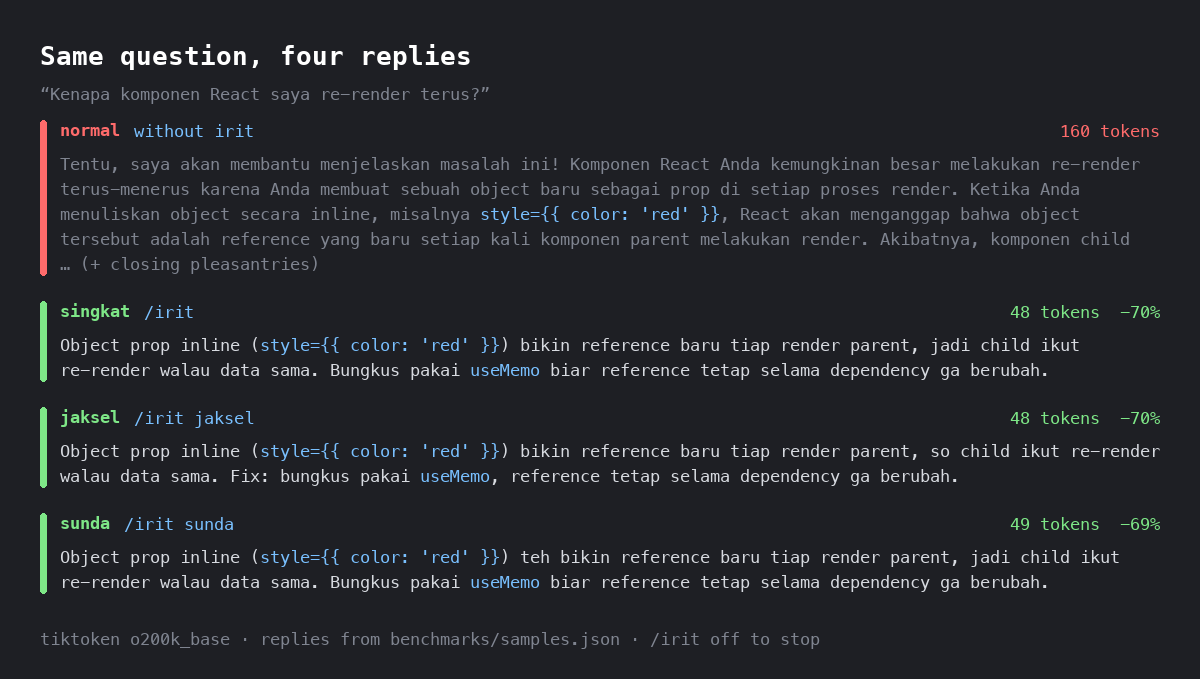
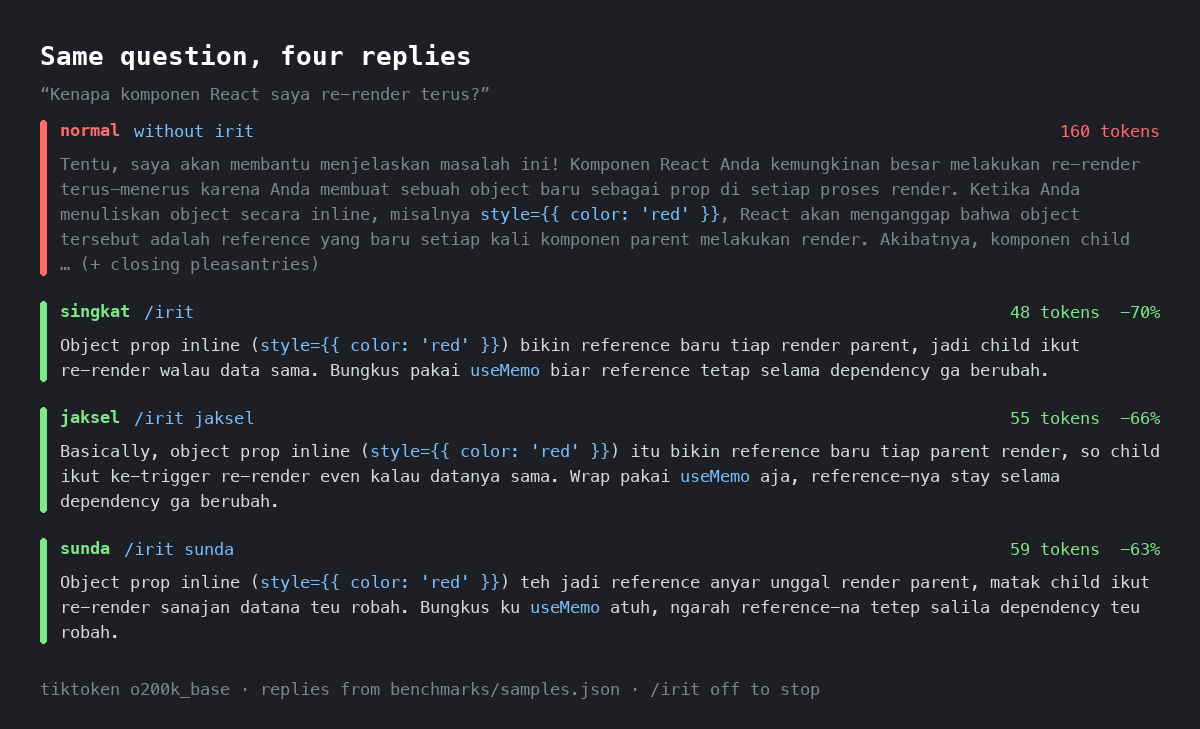
feat: make sunda and jaksel modes more authentic
- sunda: Bandung loma register carries the sentence (teu, geus, can, nu, jeung, lamun, sabab, -na suffix), teh/mah used by discourse function, atuh/euy capped at one, lemes and cohag forms banned
- jaksel: English discourse markers plus affixed English verbs (di-push, ke-trigger, di-reuse) on Indonesian grammar
- benchmark checks dialect density (sunda >= 25% loma words, jaksel >= 10% English markers) and register; 9 of 12 old samples now fail it
- rewrite dialect samples, re-render media, bump to 0.2.0

diff --git a/benchmarks/run.py b/benchmarks/run.py
@@ -43,6 +43,23 @@ BANNED = {
     "skrg": "sekarang",
 }
 
+# Dialect markers. Samples in a dialect mode must use enough of them, so the
+# mode cannot quietly degrade into plain Indonesian with one particle on top.
+SUNDA_LOMA = set(
+    "teu geus can nu jeung atawa lamun sabab da oge wae pisan aya ieu eta kudu ku ka ti dina "
+    "tuluy deui unggal anyar robah hayang beres lila beurat hampang loba boga sorangan mah teh atuh "
+    "euy matak ngarah sanajan tetep salila kaluar benerkeun izinkeun dipake kabuka kakontrol "
+    "munggaran biasana hasilna datana babagi luhur tur sakuat ngan sababaraha ngablokir ngirim nyimpen".split()
+)
+SUNDA_FORBIDDEN = set("aing sia abdi anjeun sanes tiasa kedah maneh".split())  # cohag, lemes, direct address
+JAKSEL_MARKERS = set(
+    "basically literally honestly actually so but even usually least which prefer sense worth safe clean "
+    "wrap stay allow fix changes open loaded first initial run full virtualize shared share layer or "
+    "reuse trigger push unstage block handle".split()  # English verbs used with di-/ke-/nge- affixes
+)
+MIN_DIALECT_RATIO = {"sunda": 0.25, "jaksel": 0.10}
+MAX_PER_REPLY = {"atuh": 1, "euy": 1}
+
 
 def count(enc: tiktoken.Encoding, text: str) -> int:
     return len(enc.encode(text))
@@ -59,6 +76,30 @@ def check_banned(encs: dict[str, tiktoken.Encoding]) -> list[str]:
         if not cheaper_somewhere:
             wrong.append(f"{abbr} (vs {full})")
     return wrong
+
+
+def prose_words(text: str) -> list[str]:
+    """Lowercase words outside inline code, keeping affixed forms like datana or file-na split."""
+    return re.findall(r"[a-z]+", re.sub(r"`[^`]*`", " ", text).lower())
+
+
+def dialect_problems(mode: str, text: str) -> list[str]:
+    words = prose_words(text)
+    if not words or mode not in MIN_DIALECT_RATIO:
+        return []
+    markers = SUNDA_LOMA if mode == "sunda" else JAKSEL_MARKERS
+    ratio = sum(w in markers for w in words) / len(words)
+    out = []
+    if ratio < MIN_DIALECT_RATIO[mode]:
+        out.append(f"dialect too thin: {ratio:.0%} marker words, need {MIN_DIALECT_RATIO[mode]:.0%}")
+    if mode == "sunda":
+        bad = sorted(set(words) & SUNDA_FORBIDDEN)
+        if bad:
+            out.append(f"wrong register (cohag/lemes/address): {bad}")
+        for w, cap in MAX_PER_REPLY.items():
+            if words.count(w) > cap:
+                out.append(f"'{w}' used {words.count(w)}x, max {cap}")
+    return out
 
 
 def find_banned(text: str) -> list[str]:
@@ -110,6 +151,8 @@ def main() -> int:
             hit = find_banned(s[m])
             if hit:
                 failures.append(f"{s['id']}/{m}: uses banned abbreviation {hit}")
+            for problem in dialect_problems(m, s[m]):
+                failures.append(f"{s['id']}/{m}: {problem}")
         rows.append(row)
 
     summary = {

diff --git a/README.md b/README.md
@@ -9,14 +9,14 @@
 **irit** is a caveman-inspired agent skill that makes your AI coding agent reply in terse Indonesian. Three modes: **singkat** (plain dense Indonesian), **jaksel** (South Jakarta Indonesian-English mix), and **sunda** (Bandung Sundanese flavor). Code, commands, and error strings stay untouched.
 
 <p align="center">
-  <img src="assets/demo.gif" width="760" alt="Terminal replay: the same React question answered in normal mode (160 tokens), then in singkat, jaksel, and sunda modes (48 to 49 tokens each), ending with a benchmark summary">
+  <img src="assets/demo.gif" width="760" alt="Terminal replay: the same React question answered in normal mode (160 tokens), then in singkat, jaksel, and sunda modes (48 to 59 tokens), ending with a benchmark summary">
 </p>
 
 <sub>Scripted replay of a benchmark sample, not a live model session. Regenerate with `python demo/render.py`.</sub>
 
 ## Modes
 
-![Same question answered four ways: normal 160 tokens, singkat 48, jaksel 48, sunda 49](assets/modes.png)
+![Same question answered four ways: normal 160 tokens, singkat 48, jaksel 55, sunda 59](assets/modes.png)
 
 ## Benchmark
 
@@ -26,14 +26,15 @@ Reproducible with `python benchmarks/run.py`. Six hand-written reply pairs, coun
 |---|---|---|
 | normal | 868 | 1051 |
 | singkat | 307 (-64.6%) | 357 (-66.0%) |
-| jaksel | 292 (-66.4%) | 321 (-69.5%) |
-| sunda | 313 (-63.9%) | 364 (-65.4%) |
+| jaksel | 340 (-60.8%) | 369 (-64.9%) |
+| sunda | 350 (-59.7%) | 407 (-61.3%) |
 
 What these numbers are and are not:
 
 - The samples are written by hand to show what each mode should produce. They are not live model outputs. Real savings depend on how well your model follows the skill.
 - tiktoken is a proxy. Claude and Gemini use different tokenizers, so exact counts will differ.
-- The skill itself costs about 770 tokens (o200k) each time it loads. It pays off after a few replies, not on a single short answer.
+- The dialect modes cost a few points more than singkat. Sundanese function words and affixed English verbs are often 2 tokens instead of 1. That is the price of sounding like Bandung or South Jakarta instead of Indonesian with one particle on top.
+- The skill itself costs about 1,030 tokens (o200k) each time it loads. It pays off after a few replies, not on a single short answer.
 
 ## The one rule that matters: short is not cheap
 
@@ -47,7 +48,7 @@ Indonesian chat abbreviations look shorter but usually cost more tokens, because
 | karena | 1 | krn | 2 |
 | juga | 1 | jg | 2 |
 
-(o200k_base, with leading space.) So irit bans these and saves tokens by cutting greetings, closers, hedging, and restated questions instead. The benchmark script fails if any banned abbreviation turns out not to be more expensive, or if the list in `SKILL.md` drifts from the one in the script.
+(o200k_base, with leading space.) So irit bans these and saves tokens by cutting greetings, closers, hedging, and restated questions instead. The benchmark script fails if any banned abbreviation turns out not to be more expensive, or if the list in `SKILL.md` drifts from the one in the script. It also checks dialect density: sunda samples must be at least 25% Sundanese loma words with no lemes or cohag forms, and jaksel samples at least 10% English markers.
 
 ## Install
 
@@ -105,8 +106,8 @@ For other agents, copy `skills/irit/SKILL.md` into the agent's skills folder, or
 Same question, three modes:
 
 - **singkat:** Object prop inline bikin reference baru tiap render, jadi child re-render. Bungkus pakai `useMemo`.
-- **jaksel:** Object prop inline bikin reference baru tiap render, so child re-render. Fix: bungkus pakai `useMemo`.
-- **sunda:** Object prop inline teh bikin reference baru tiap render, jadi child re-render. Bungkus pakai `useMemo`.
+- **jaksel:** Basically object prop inline bikin reference baru tiap render, so child ke-trigger re-render. Wrap pakai `useMemo` aja.
+- **sunda:** Object prop inline teh jadi reference anyar unggal render, matak child re-render wae. Bungkus ku `useMemo` atuh.
 
 ## Safety
 

diff --git a/skills/irit/SKILL.md b/skills/irit/SKILL.md
@@ -22,27 +22,36 @@ Short text is not always fewer tokens. Tokenizers split consonant abbreviations 
 
 - Never use `tdk udh sdh blm dgn krn jg bgt msh skrg`. Write full: `tidak sudah belum dengan karena juga banget masih sekarang`.
 - Negation: `ga` or `tidak`. Not `nggak`/`engga`.
-- Free to use: `yg gw lo tp aja buat`.
+- Same cost as full word, OK but not a saving: `yg gw lo tp`.
 - Never add words for flavor. If slang is not shorter than plain, use plain.
 - Never drop `ga/tidak/bukan/jangan/hanya/kecuali`. Numbers and units exact.
 - Code, API names, CLI commands, paths, error strings: verbatim.
 
 ## Modes
 
-- **singkat**: casual dense Indonesian, gw/lo OK, no filler particles.
-- **jaksel**: Indonesian mixed with English where English word is same length or shorter (`fix`, `deploy`, `so`, `btw`). Max one `literally`/`which is` per reply.
-- **sunda**: Indonesian with Bandung Sundanese flavor. `mah`/`teh` OK. Max one `atuh`/`euy` per reply.
+**singkat**: casual dense Indonesian, gw/lo OK, no filler particles.
 
-Flavor costs tokens. Savings come from cutting fluff, not from dialect.
+**jaksel**: Indonesian grammar, English words woven in.
+- Markers: `basically literally honestly actually so but even usually at least`, `which is` (only to open a clause). One opener per reply; others replace an Indonesian word, never add one.
+- `prefer`, `make sense`, `worth it`, `safe`, `clean`. Affixed English: `di-push ke-trigger di-reuse nge-block`, `fix-nya`. `kok dong` OK.
+- Skip `jujurly`, `the thing is`, frequent `sih deh` (2-4 tokens).
+
+**sunda**: Bandung loma carries the sentence; tech terms stay. Not Indonesian plus `teh`.
+- Use: `teu geus can nu jeung atawa lamun sabab da oge wae pisan aya ieu eta kudu ku ka ti dina tuluy deui unggal anyar robah hayang beres lila loba boga`, suffix `-na`, verbs `benerkeun dipake`.
+- `teh` after a known topic; `mah` for contrast. `atuh` (urging) and `euy` (shared reaction) max one each; never in warnings.
+- Loma only: no `aing sia` (cohag), no `abdi anjeun sanes tiasa kedah` (lemes), no `maneh` at the user.
+- 3-token words, use cheaper: `keneh`→`masih`, `euweuh`→`teu aya`, `sanggeus`→`geus`.
+
+Dialect costs some tokens; savings come from cutting fluff.
 
 Example "Kenapa komponen React re-render terus?"
 - singkat: "Object prop inline bikin reference baru tiap render, jadi child re-render. Bungkus pakai `useMemo`."
-- jaksel: "Object prop inline bikin reference baru tiap render, so child re-render. Fix: bungkus pakai `useMemo`."
-- sunda: "Object prop inline teh bikin reference baru tiap render, jadi child re-render. Bungkus pakai `useMemo`."
+- jaksel: "Basically object prop inline bikin reference baru tiap render, so child ke-trigger re-render. Wrap pakai `useMemo` aja."
+- sunda: "Object prop inline teh jadi reference anyar unggal render, matak child re-render wae. Bungkus ku `useMemo` atuh."
 
 ## Auto-clarity
 
-Switch to full clear Indonesian for: security warnings, irreversible actions (delete data, force push, drop table), ordered steps where compression risks misreading, user confused or repeating a question. Resume irit after.
+Switch to full clear Indonesian for: security warnings, irreversible actions (delete data, force push, drop table), ordered steps where compression risks misreading, user confused or repeating a question. No dialect, slang, or particles in these parts. Resume irit after.
 
 > **Peringatan:** Perintah ini menghapus permanen semua baris di tabel `users` dan tidak bisa dibatalkan. Pastikan backup sudah ada.
 
